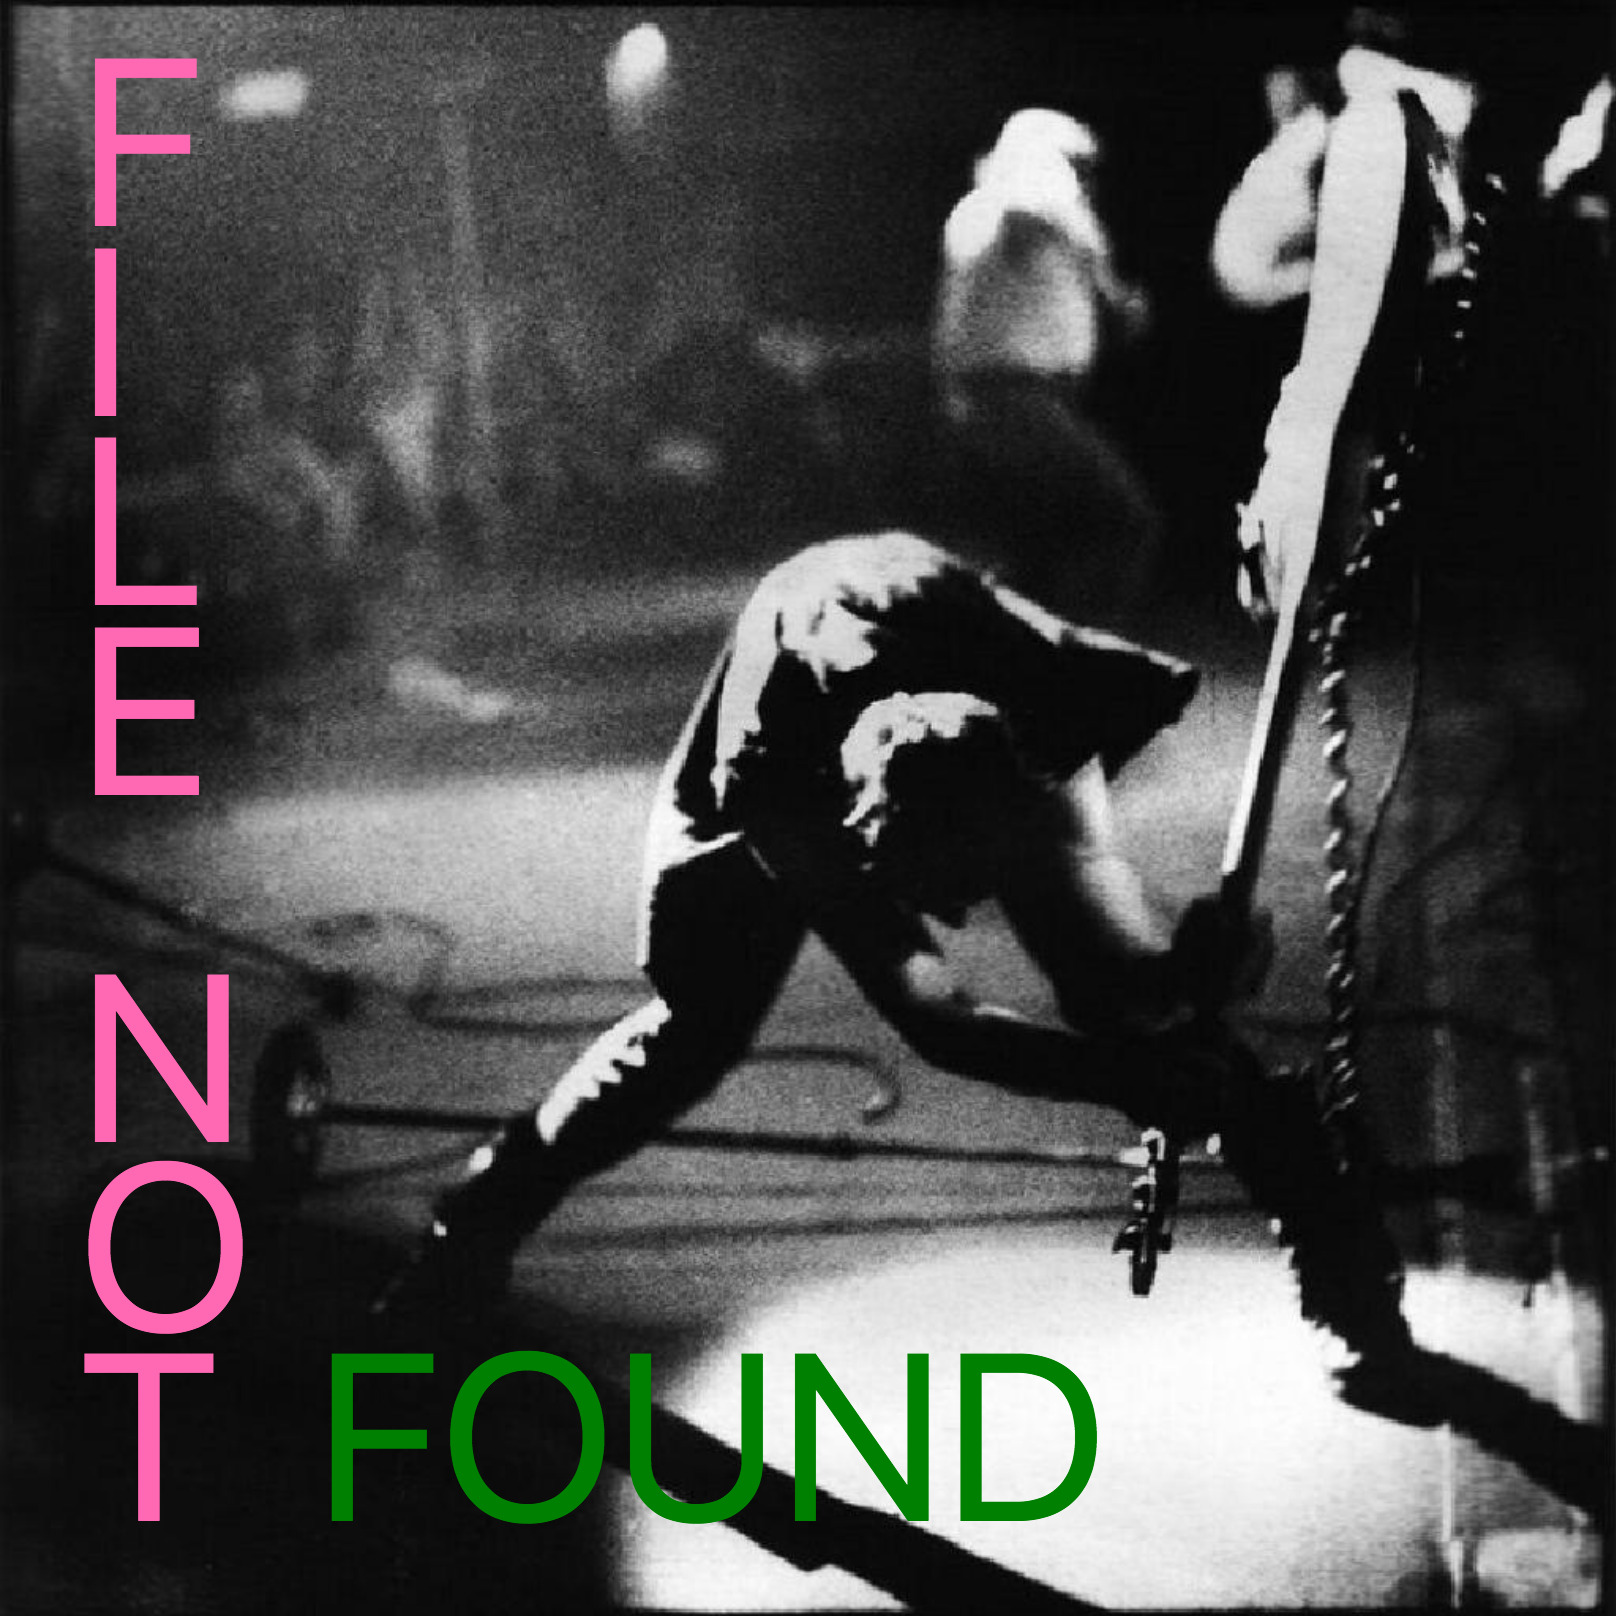
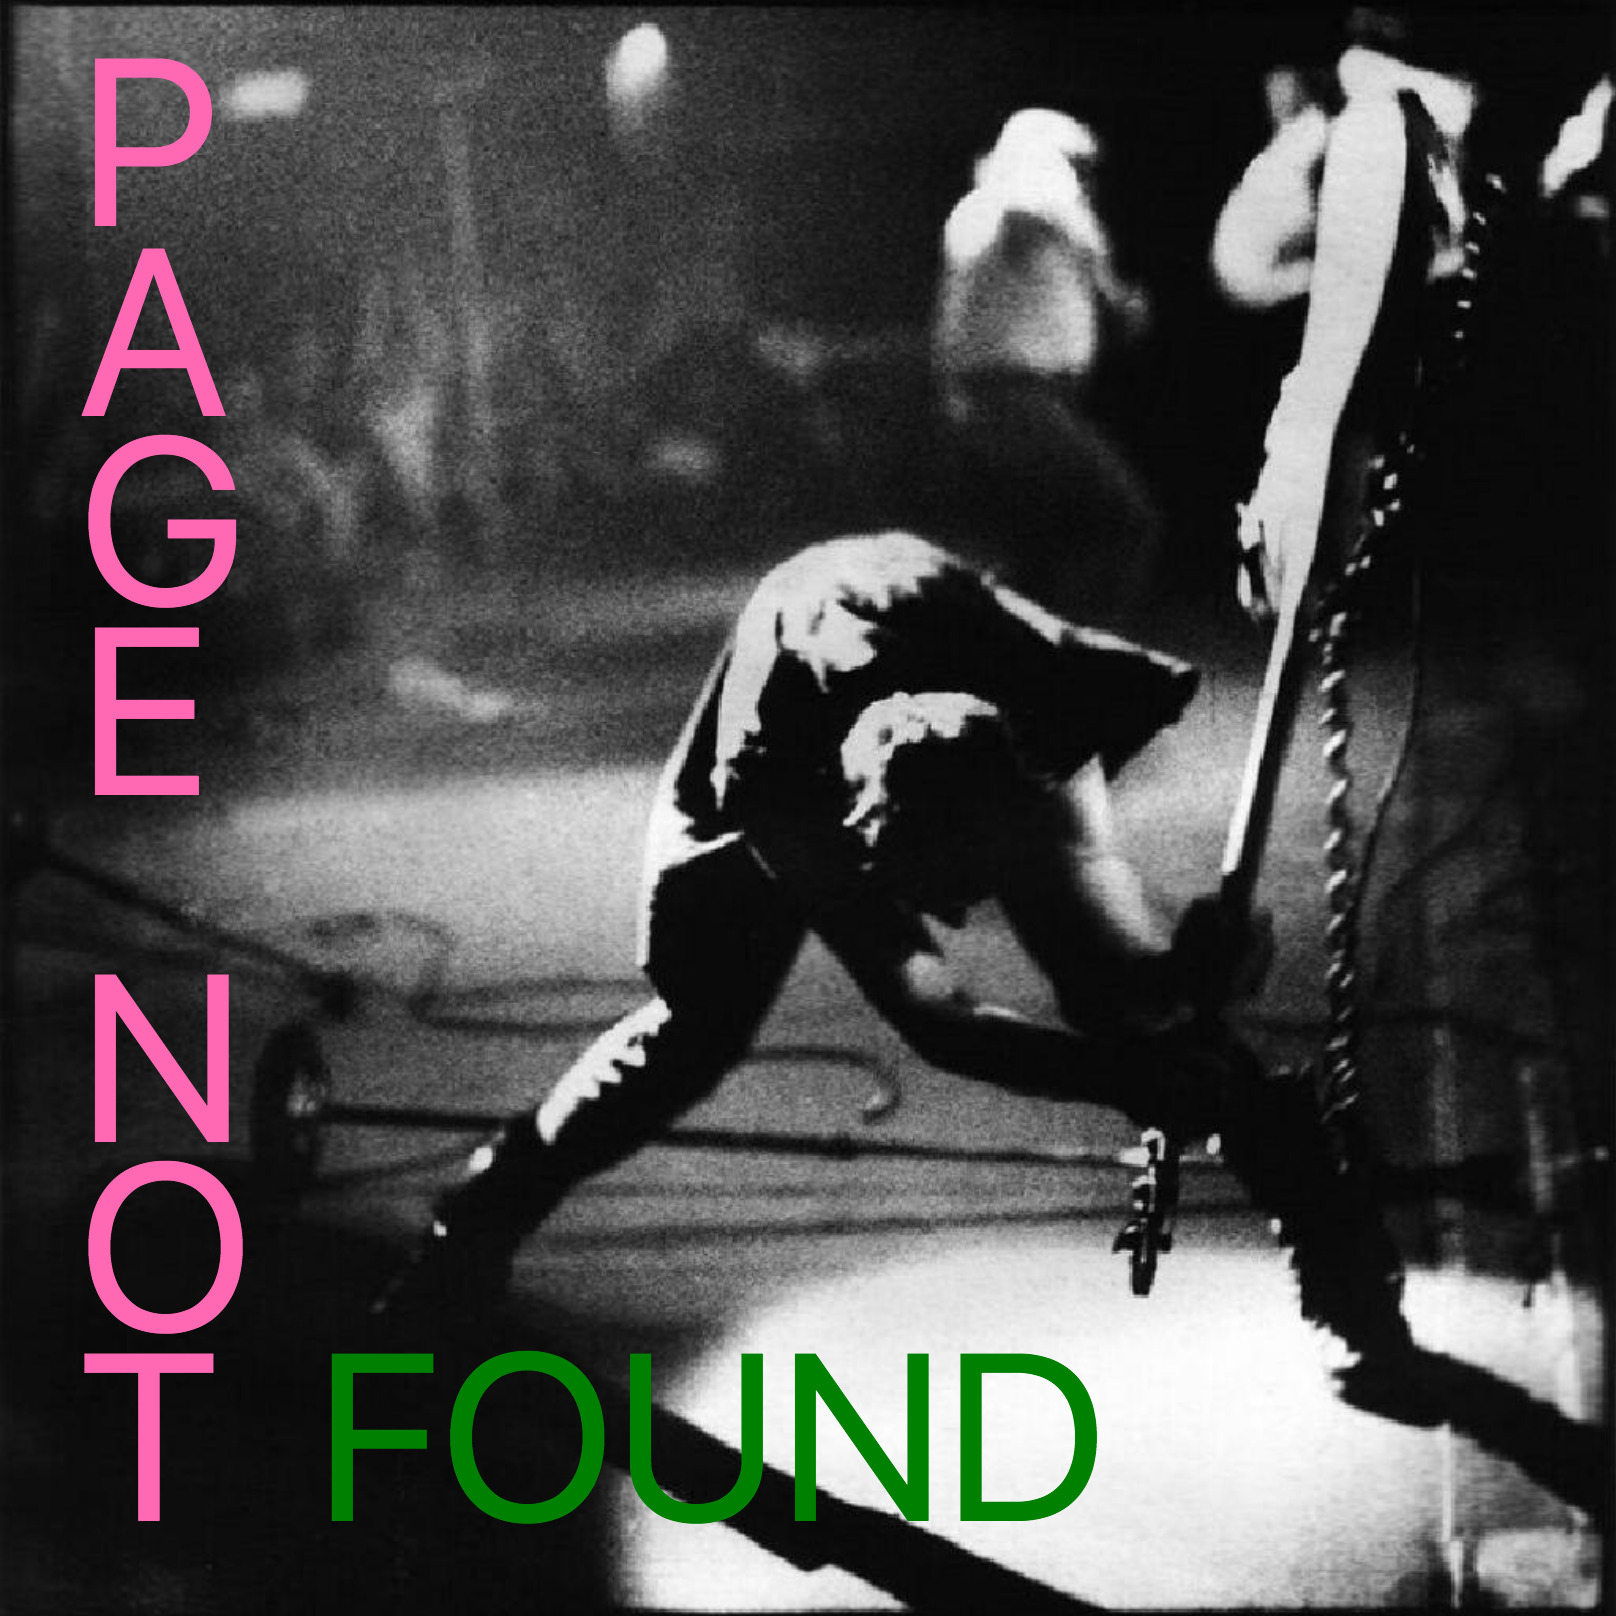
Added 404 everywhere

Changed region(s): [[0.0309, 0.1547, 0.1547, 0.3713], [0.0619, 0.0309, 0.1547, 0.1238]]

diff --git a/client/src/pages/Details/Details.jsx b/client/src/pages/Details/Details.jsx
@@ -1,5 +1,5 @@
 import React, {useCallback, useEffect, useState} from 'react';
-import { toast } from 'react-toastify';
+import {toast} from 'react-toastify';
 import 'react-toastify/dist/ReactToastify.css';
 import YouTube from 'react-youtube';
 
@@ -20,11 +20,12 @@ import ImageAsync from 'react-image-async';
 
 
 import './../../style/details.scss'
-import { useDispatch, useSelector } from 'react-redux';
+import {useDispatch, useSelector} from 'react-redux';
 import REDUX_KEY from '../../redux/ReduxKeys';
 
 import Comment from "./Comment";
 import apis, {tryURL} from "../../api";
+import {NotFound} from "../NotFound";
 
 function CategoryItem(props) {
     return <Button style={{ marginLeft: "10px", background: "lightblue" }}>
@@ -46,21 +47,7 @@ function youTube(videoId) {
     }
 }
 
-function Error() {
-    return (
-        <div style={{
-            width: "100vw",
-            textAlign: "center"
-        }}>
-            <img style={{
-                width: "80vh",
-                height: "80vh"
-            }} src={require("../../assets/img/error.jpg")}
-            />
-        </div>
 
-    )
-}
 
 
 
@@ -160,7 +147,7 @@ function Details(props) {
             .catch(err => {
                 setError(true);
             });
-    }, []);
+    }, [props.match.params.id]);
 
     let testplugin = {
         id: 1,
@@ -195,14 +182,14 @@ function Details(props) {
     };
 
     return (
-        error ? <Error /> :
+        error ? <NotFound /> :
             <Grid container alignItems="center" justify="center" direction="column">
                 <Grid item xs={8}>
                     <Card className="detailCard" variant="outlined">
                         <Grid container spacing={3}>
                             <Grid item xs={3}>
                                 <ImageAsync src={plugin.image}>
-                                    {({ loaded, error }) =>
+                                    {({ loaded}) =>
                                         loaded ? <img alt="Loading..." className="detailImage" src={plugin.image} /> : <div>Loading...</div>
                                     }
                                 </ImageAsync>
@@ -210,28 +197,18 @@ function Details(props) {
                             <Grid item xs={9}>
                                 <Grid container justify="flex-start" style={{ marginTop: "20px" }}>
                                     <Grid item xs={12}>
-                                        <Typography color="textSecondary" gutterBottom style={{ float: "left" }}>
-                                            {"Catégories :"}
-                                    </Typography>
-                                        {
-                                            plugin.categories &&
-                                            plugin.categories.map((item, index) => (
-                                                <CategoryItem key={index} item={item} />))
-                                        }
-                                    </Grid>
-                                    <Grid item xs={12}>
-                                        <Typography variant="h5" component="h2">
+                                        <Typography variant="h4" component="h2">
                                             {plugin.name}
                                         </Typography>
                                     </Grid>
                                     <Grid item xs={12}>
                                         <Typography color="textSecondary">
-                                            {plugin.author}
+                                            Auteur : {plugin.author}
                                         </Typography>
                                     </Grid>
                                     <Grid item xs={12}>
                                         <Typography variant="body2" component="p">
-                                            {"v" + plugin.version}
+                                            {"version : " + plugin.version}
                                         </Typography>
                                     </Grid>
                                     <Grid item xs={12}>
@@ -261,9 +238,19 @@ function Details(props) {
                                             || isConnected && plugin && plugin.likes.includes(login.user.mail) && <FavoriteIcon onClick={() => like(false)} fontSize="large" style={{ float: "left", color: "red" }}/>
                                             || isConnected && plugin && !plugin.likes.includes(login.user.mail) && <FavoriteBorderIcon onClick={() => like(true)} fontSize="large" style={{ float: "left", color: "red" }}/>
                                         }
-                                        <h6 style={{ float: "left",marginTop:"6px"}}>
+                                        <Typography variant="h6" component="p" style={{ float: "left", margin:"3px"}}>
                                             {plugin.likes && plugin.likes.length}
-                                        </h6>
+                                        </Typography>
+                                    </Grid>
+                                    <Grid item xs={12}>
+                                        <Typography color="textSecondary" gutterBottom style={{float: "left"}}>
+                                            {"Catégories :"}
+                                        </Typography>
+                                        {
+                                            plugin.categories &&
+                                            plugin.categories.map((item, index) => (
+                                                <CategoryItem key={index} item={item}/>))
+                                        }
                                     </Grid>
                                 </Grid>
                             </Grid>
@@ -282,7 +269,7 @@ function Details(props) {
                             </Grid>
                         </Grid>
                         <CardActions>
-                        <Button size="small" href={tryURL + plugin.tryLink} target="_blank">Try now</Button>
+                        <Button size="small" href={tryURL + plugin.tryLink} target="_blank">Essayer !</Button>
                     </CardActions>
                 </Card>
             </Grid>
@@ -294,8 +281,8 @@ function Details(props) {
                     }
                 </Grid>
                 <Grid item xs={8} style={{ marginTop: "20px", width: "100%" }}>
-                    <TextField id="commentField" disabled={!isConnected} multiline fullWidth variant="outlined" placeholder="Add a comment" value={comment} onChange={handleCommentChange} />
-                    <Button variant="contained" disabled={!isConnected} style={{ float: "right", marginTop: "5px" }} onClick={() => addComment()}>Add comment</Button>
+                    <TextField id="commentField" disabled={!isConnected} multiline fullWidth variant="outlined" placeholder="Commentaire" value={comment} onChange={handleCommentChange} />
+                    <Button variant="contained" disabled={!isConnected} style={{ float: "right", marginTop: "5px" }} onClick={() => addComment()}>Ajouter commentaire</Button>
                 </Grid>
             </Grid>
     );

diff --git a/client/src/pages/User/AddPlugin.jsx b/client/src/pages/User/AddPlugin.jsx
@@ -15,10 +15,10 @@ export default function AddPlugin(props) {
 
     const login = useSelector(state => state.tokenReducer);
     console.log(login);
-    try{
+    try {
         console.log(login.user.token);
 
-    }catch (e) {
+    } catch (e) {
         console.log(e)
     }
 
@@ -31,7 +31,7 @@ export default function AddPlugin(props) {
         formData.append('image', image);
         formData.append('plugin', plugin);
         formData.append('author', login.user.mail);
-        const req = await api.createPlugin(formData, {
+        await api.createPlugin(formData, {
             headers: {
                 'Content-Type': 'multipart/form-data',
                 'Authorization': 'Bearer ' + login.user.token

diff --git a/client/src/app/index.js b/client/src/app/index.js
@@ -10,6 +10,7 @@ import { createStore, applyMiddleware, combineReducers } from 'redux';
 import createEngine from 'redux-storage-engine-localstorage';
 import REDUX_KEY from '../redux/ReduxKeys';
 import { ToastContainer } from "react-toastify";
+import {NotFound} from "../pages/NotFound";
 
 
 storage.reducer(combineReducers(myReducer));
@@ -62,6 +63,7 @@ function MainRoute() {
                 <Route path="/user/plugins" exact component={UserPlugins} />
                 <Route path="/user/cart" exact component={Cart} />
                 <Route path="/" exact component={Plugins} />
+                <Route path='*' exact={true} component={NotFound} />
             </Switch>
         </>
     )

diff --git a/client/src/pages/NotFound.jsx b/client/src/pages/NotFound.jsx
@@ -1,0 +1,17 @@
+import React from "react";
+
+export function NotFound() {
+    return (
+        <div style={{
+            width: "100vw",
+            textAlign: "center"
+        }}>
+            <img alt={'Loading'}
+                 style={{
+                     width: "80vh",
+                     height: "80vh"
+                 }} src={require("../assets/img/error.jpg")}
+            />
+        </div>
+    )
+}

diff --git a/client/src/pages/PluginsList/Plugin.jsx b/client/src/pages/PluginsList/Plugin.jsx
@@ -29,7 +29,7 @@ export default function Plugin(props) {
     useEffect(() => {
         const image = baseURL + "plugins/" + props.id + "/image";
         setImage(image);
-    }, []);
+    }, [image, props.id]);
 
     return (
         <Card className="card" style={{backgroundColor: "#F3F3F3", border: 0}}>

diff --git a/client/src/pages/User/UserPlugins.jsx b/client/src/pages/User/UserPlugins.jsx
@@ -20,7 +20,7 @@ export default function UserPlugins(props) {
             console.log(e);
         }
 
-    }, []);
+    }, [login.user]);
 
     return (
         <>
